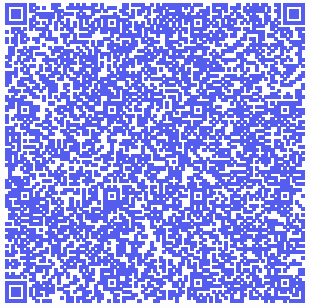
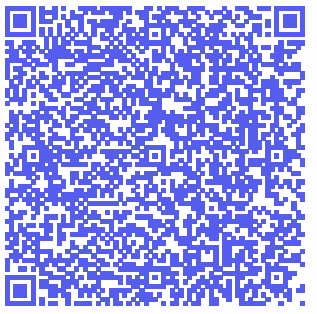
reduce error correction from H to L

diff --git a/src/RequestQRCode.tsx b/src/RequestQRCode.tsx
@@ -13,7 +13,7 @@ const RequestQRCode: React.SFC<RequestQRCodeProps> = props => (
     bgColor={props.bgColor}
     fgColor={props.fgColor}
     renderAs={props.renderAs}
-    level="H"
+    level="L"
     value={JSON.stringify(props.requestData)}
   />
 )
